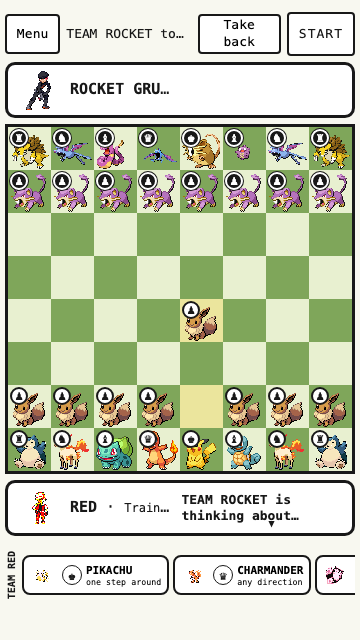
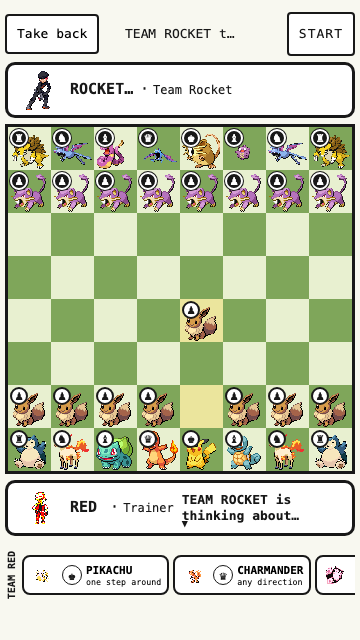
fix(b24): START replaces Menu, move lines per plate, one-line plates

diff --git a/src/style.css b/src/style.css
@@ -542,14 +542,13 @@ html.fit:not(.fit-wide) .legend-item { min-height: 38px; }
 html.fit-drawer .legend-strip { display: none; }
 html.fit-drawer.legend-open .legend-strip { display: flex; position: fixed; left: 8px; right: 8px; bottom: 8px; z-index: 30; width: auto; max-height: 60dvh; overflow: auto; flex-direction: column; padding: 8px; background: var(--paper); border: 3px solid var(--ink); border-radius: 10px; box-shadow: 0 4px 0 var(--ink); }
 /* Wide: the board takes the full height; plates and Who's who sit in a column beside it. */
-html.fit-wide header.game-header { width: calc(var(--sq) * 8 + 6px + 16px + 260px); }
+html.fit-wide main > header.game-header { grid-column: 1; grid-row: 1; width: calc(var(--sq) * 8 + 6px); margin: 0; }
+html.fit-wide main > .start-btn { grid-column: 2; grid-row: 1; width: 260px; }
 html.fit-wide main { display: grid; grid-template-columns: auto 260px; column-gap: 16px; row-gap: 6px; align-items: start; align-content: start; grid-auto-rows: min-content; }
 html.fit-wide main > * { grid-column: 2; width: 260px; }
-html.fit-wide main > .board-wrap { grid-column: 1; grid-row: 1 / span 20; width: auto; }
+html.fit-wide main > .board-wrap { grid-column: 1; grid-row: 2 / span 20; width: auto; }
 html.fit-wide .plate { height: 72px; }
 html.fit-wide .plate .plate-sprite { width: 60px; height: 60px; }
-html.fit-wide .plate-who { max-width: 40%; flex-direction: column; gap: 0; }
-html.fit-wide .plate-name { font-size: 11px; white-space: normal; text-align: center; }
 html.fit-wide .legend-strip { max-height: calc(var(--sq) * 8 - 170px); overflow-y: auto; }
 html.fit-wide .legend-team { flex-direction: column; align-items: stretch; overflow: visible; }
 html.fit-wide .legend-team-name { writing-mode: horizontal-tb; transform: none; font-size: 12px; }
@@ -595,8 +594,6 @@ html.fit-icons header.game-header { margin-bottom: 4px; }
 .loadout { display: flex; gap: 2px; margin-inline-start: 6px; }
 .loadout .loadout-mon { width: 32px; height: 32px; }
 html.fit-wide .plate { height: 88px; }
-html.fit-wide .plate-name { display: -webkit-box; -webkit-line-clamp: 2; -webkit-box-orient: vertical; overflow: hidden; line-height: 1.15; }
-html.fit-wide .plate-name small { display: block; }
 html.fit-wide .legend-strip { max-height: calc(var(--sq) * 8 - 200px); }
 /* Change C: the Gen 1 style start menu, drawn here: chunky double line boxes with rivet corners, a ▶ cursor. */
 .gb-box { position: relative; box-sizing: border-box; padding: 14px 18px; background: #f8f8f0; border: 4px double var(--ink); outline: 3px solid var(--ink); outline-offset: -11px; border-radius: 2px; box-shadow: inset 0 0 0 2px #f8f8f0; }
@@ -664,3 +661,30 @@ header.game-header .turn { flex: 1 1 auto; min-width: 0; overflow: hidden; text-
 .screen-quick .start-list .start-item { min-height: 56px; }
 html.fit header.game-header .start-btn { min-height: 44px; } /* START stays at least 44 px tall (§B22 item 3) */
 .menu.has-newgame-back { padding-top: 60px; }
+/* §B24 item 3: name and title on one line; only the name shortens. */
+.plate-name { display: flex; align-items: baseline; min-width: 0; overflow: hidden; white-space: nowrap; }
+.plate-name b { min-width: 0; overflow: hidden; text-overflow: ellipsis; }
+.plate-name .plate-sep, .plate-name .plate-title { flex: none; white-space: pre; }
+html.fit-wide .plate-who { max-width: 62%; }
+html.fit-wide .plate-name { font-size: 12px; }
+
+/* §B24 item 1: the status text stays centred over the board whatever sits left and right of it. */
+header.game-header { position: relative; }
+header.game-header .turn { position: absolute; left: 50%; top: 50%; transform: translate(-50%, -50%); max-width: calc(100% - 2 * 120px); pointer-events: none; }
+html.fit-icons header.game-header .turn { max-width: calc(100% - 2 * 96px); }
+header.game-header > .start-btn { margin-inline-start: auto; }
+.plate-who { overflow: hidden; }
+.plate-who .plate-name { flex: 0 1 auto; }
+.plate-who { max-width: 66%; }
+.plate-name b { min-width: 4ch; }
+.plate-name .plate-sep { margin: 0 4px; white-space: normal; }
+.plate-name .plate-title { white-space: nowrap; }
+/* Wide: the 260 px side column stacks each plate: trainer and name on top, the message underneath. */
+html.fit-wide .plate { flex-wrap: wrap; align-content: center; row-gap: 2px; padding-top: 4px; padding-bottom: 4px; }
+html.fit-wide .plate-who { flex: 1 1 100%; max-width: 100%; }
+html.fit-wide .plate .plate-sprite { width: 44px; height: 44px; }
+html.fit-wide .plate-msg { flex: 1 1 100%; font-size: 12px; }
+/* The message itself is clamped to 2 lines, so its box never runs past the plate (§B24, fit at 320x480). */
+.plate .textbox { display: block; max-height: 2.6em; }
+.plate .textbox .tb-main { display: -webkit-box; -webkit-line-clamp: 2; -webkit-box-orient: vertical; overflow: hidden; }
+.plate .textbox .tb-caption { display: none; }

diff --git a/src/main.ts b/src/main.ts
@@ -198,7 +198,7 @@ function boot(): App {
   const turnEl = el('p', 'turn');
   turnEl.dataset.testid = 'turn';
   const backBtn = button('game.takeBack', () => takeBack(), 'takeback');
-  header.append(button('game.menu', () => goTitle(), 'menu'), turnEl, backBtn);
+  header.append(backBtn, turnEl); // START replaces Menu (§B24 item 1)
   // START (§B22 item 3), in the top bar on the game screen, in the corner or the top row elsewhere.
   const startBtn = new StartButton(() => startActions(), () => yellow() || !!journey.campaign.starter || isGuest());
   header.append(startBtn.inBar);
@@ -304,7 +304,7 @@ function boot(): App {
   const plates = new Plates();
   main.append(plates.top, boardWrap, plates.bottom, legend.el, online.bar, puzzle.bar, path.bar);
   plates.attachText(text.el); // your plate and the text box are one bar (change A)
-  const fitter = new Fitter({ header, main, board: boardWrap, legend: legend.el, others: [plates.top, plates.bottom, online.bar, puzzle.bar, path.bar] });
+  const fitter = new Fitter({ header, main, board: boardWrap, legend: legend.el, others: [plates.top, plates.bottom, online.bar, puzzle.bar, path.bar], start: startBtn.inBar });
   /** Story stage and trainers (§B18 items 5 and 8). Online, each side brings its own look from the relay. */
   const look = () => (isGuest() ? { stage: 2 as const, trainer: 'red' as const } : myLook(!yellow(), journey.campaign.badges.length));
   let looks: Partial<Record<Color, Look>> = {};
@@ -373,8 +373,7 @@ function boot(): App {
   /** CONTINUE (change C) and the hub's Continue: the journey spot or the game in progress, else the home screen. */
   function resume(): void {
     const g = savedGame();
-    const c = journey.campaign;
-    if (!yellow() && c.starter && (load<string>('last') === 'journey' || !g)) return journey.open();
+    if (!yellow() && journey.campaign.starter && (load<string>('last') === 'journey' || !g)) return journey.open();
     if (g) return startGame(g, g);
     goTitle();
   }
@@ -383,9 +382,8 @@ function boot(): App {
   const vsComputer = () => (yellow() ? show(yellowLevels((level) => startGame({ mode: 'computer', human: 'w', level }), goTitle, faces('w'))) : show(teamSelect((human) => show(levelSelect((level) => startGame({ mode: 'computer', human, level }), goTitle, faces(human))), goTitle)));
   /** SAVE & QUIT (§B22 item 3): progress is already saved; back to the start menu. A guest's session just ends. */
   function quit(): void {
-    for (const stop of [() => online.close(), () => puzzle.stop(), () => path.stop(), leaveGuest]) stop();
-    journey.campaign = loadCampaign();
-    flow.menu();
+    for (const stop of [() => online.close(), () => puzzle.stop(), () => path.stop(), leaveGuest, () => (journey.campaign = loadCampaign())]) stop();
+    return params.has('debug') && !params.has('menu') ? goTitle() : flow.menu(); // tests skip the start menu, as after the splash
   }
   /** What START offers here: the Journey only for a BLUE save, Online only in BLUE, the Pokédex only with a save. */
   const startActions = (): StartActions => ({
@@ -537,8 +535,10 @@ function boot(): App {
     const sp = speciesFor(out.move.color, out.move.promotion ?? out.move.piece, to);
     const lines = notice ? [notice, ...out.lines] : out.lines;
     notice = null;
-    if (lines.length) text.show(lines);
-    else text.plain(fmt('moved', { piece: sp.name, square: to }));
+    // Each side's move line goes to that side's plate; yours keeps your prompts (§B24 item 2).
+    const said = lines.length ? lines.map((l) => fmt(l.key, l.vars)).join(' ') : fmt('moved', { piece: sp.name, square: to });
+    if (!plates.message(out.move.color, said)) text.show(lines.length ? lines : [{ key: 'moved', vars: { piece: sp.name, square: to } }]);
+    else text.plain('');
     announce([fmt('moved', { piece: sp.name, square: to }), ...out.lines.map((l) => fmt(l.key, l.vars))].join(' '));
     if (out.move.isKingsideCastle() || out.move.isQueensideCastle()) sound.castle();
     else if (!out.battle) sound.place();

diff --git a/tests/e2e/b24.spec.ts b/tests/e2e/b24.spec.ts
@@ -1,0 +1,65 @@
+// SPDX-License-Identifier: AGPL-3.0-only
+// §B24: START replaces Menu, move lines go to the mover's plate, plate names and titles on one line.
+import { expect, test, type Page } from '@playwright/test';
+
+const boxOf = async (page: Page, sel: string) => (await page.locator(sel).first().boundingBox())!;
+
+/** A guest game vs Jessie & James (level 3), as in the owner's screenshot. */
+async function guestVsJessie(page: Page): Promise<void> {
+  await page.addInitScript(() => localStorage.setItem('kc:v1:settings', JSON.stringify({ v: 2, anim: 'off', legend: 'on' })));
+  await page.goto('./?debug=1&menu=1');
+  await page.getByTestId('screen-splash').click();
+  await page.getByTestId('start-play').click();
+  await page.getByTestId('quick-computer').click();
+  await page.getByTestId('team-red').click();
+  await page.getByTestId('level-3').click();
+  await page.getByTestId('intro').click();
+}
+
+for (const [w, h] of [[1440, 900], [360, 640]] as const) {
+  test(`top bar and plates at ${w}x${h}`, async ({ page }) => {
+    test.setTimeout(60_000);
+    await page.setViewportSize({ width: w, height: h });
+    await guestVsJessie(page);
+    await expect(page.getByTestId('menu')).toHaveCount(0);
+    const start = await boxOf(page, '[data-testid="start-button"]');
+    const board = await boxOf(page, '#board');
+    const turn = await boxOf(page, '[data-testid="turn"]');
+    const top = await boxOf(page, '[data-testid="plate-top"]');
+    expect(start.height).toBeGreaterThanOrEqual(44);
+    if (w > h) {
+      // Wide: START tops the side column, as wide as it, above the opponent's plate.
+      expect(start.x).toBeGreaterThanOrEqual(board.x + board.width);
+      expect(Math.abs(start.width - top.width)).toBeLessThanOrEqual(1);
+      expect(Math.abs(start.x - top.x)).toBeLessThanOrEqual(1);
+      expect(start.y + start.height).toBeLessThanOrEqual(top.y + 1);
+    } else {
+      // Narrow: top right of the top bar.
+      const bar = await boxOf(page, 'header.game-header');
+      expect(Math.abs(start.x + start.width - (bar.x + bar.width))).toBeLessThanOrEqual(2);
+      expect(start.y).toBeLessThan(board.y);
+    }
+    // The status text stays centred over the board.
+    expect(Math.abs(turn.x + turn.width / 2 - (board.x + board.width / 2))).toBeLessThanOrEqual(w > h ? 4 : 40);
+    // Name and title on one line, the title whole, no stray separator.
+    for (const plate of ['plate-top', 'plate-bottom']) {
+      const name = page.getByTestId(plate).locator('.plate-name');
+      const b = await name.locator('b').boundingBox();
+      const t = await name.locator('.plate-title').boundingBox();
+      const who = await page.getByTestId(plate).locator('.plate-who').boundingBox();
+      expect(Math.abs(b!.y + b!.height - (t!.y + t!.height))).toBeLessThanOrEqual(3);
+      expect(t!.x + t!.width).toBeLessThanOrEqual(who!.x + who!.width + 1);
+      expect(await name.locator('.plate-title').evaluate((e) => e.scrollWidth <= e.clientWidth + 1)).toBe(true);
+    }
+    await expect(page.getByTestId('plate-top')).toContainText('JESSIE & JAMES');
+    await expect(page.getByTestId('plate-top')).toContainText('Team Rocket');
+    await expect(page.getByTestId('plate-bottom')).toContainText('Guest');
+    await expect(page.getByTestId('plate-bottom')).toContainText('Trainer');
+    // Your move: your plate. The computer's reply: its own plate, never yours.
+    await page.click('[data-square="e2"]');
+    await page.click('[data-square="e4"]');
+    await expect(page.getByTestId('plate-top-msg')).toContainText(/ to [a-h][1-8]/, { timeout: 15_000 });
+    expect(await page.getByTestId('text-main').textContent()).not.toMatch(/(MEOWTH|ARBOK|WEEZING|LICKITUNG|VICTREEBEL|EKANS) to /);
+    await page.screenshot({ path: `docs/layout/b24-${w}x${h}.png` });
+  });
+}

diff --git a/src/ui/fit.ts b/src/ui/fit.ts
@@ -19,6 +19,8 @@ export interface FitParts {
   legend: HTMLElement;
   /** Plates and bars: everything stacked with the board. */
   others: HTMLElement[];
+  /** START (§B24 item 1): in the top bar when narrow, at the top of the side column when wide. */
+  start?: HTMLElement;
 }
 
 export class Fitter {
@@ -71,6 +73,7 @@ export class Fitter {
     const cls = this.root.classList;
     const wide = W > H && W - SIDE_COL_PX - 3 * PAD_PX >= MIN_BOARD_PX && H < W * 0.9;
     cls.toggle('fit-wide', wide);
+    this.arrange(wide);
     cls.remove('fit-drawer', 'fit-icons');
     const legendOn = !this.p.legend.hidden;
     let side = this.measure(W, H, wide);
@@ -87,6 +90,19 @@ export class Fitter {
     if (!cls.contains('fit-drawer')) cls.remove('legend-open');
     const sq = Math.max(16, Math.floor((side - 6) / 8)); // 6: the board's 3 px border on each side
     this.root.style.setProperty('--sq', `${sq}px`);
+  }
+
+  /** Wide: the status bar goes over the board (first grid cell) and START tops the side column. Narrow: both back
+   * in the top bar above everything (§B24 item 1). */
+  private arrange(wide: boolean): void {
+    const { header, main, start } = this.p;
+    if (wide) {
+      if (header.parentElement !== main) main.prepend(header);
+      if (start && start.parentElement !== main) header.after(start);
+    } else {
+      if (header.parentElement === main) main.before(header);
+      if (start && start.parentElement !== header) header.append(start);
+    }
   }
 
   /** The board side that fits, with the stacked parts at their current heights. */

diff --git a/tests/e2e/layout.spec.ts b/tests/e2e/layout.spec.ts
@@ -27,7 +27,7 @@ async function inView(page: Page, testid: string, what: string): Promise<void> {
 async function checkGame(page: Page, what: string): Promise<void> {
   await page.waitForTimeout(150);
   await noScroll(page, what);
-  for (const id of ['board', 'plate-top', 'plate-bottom', 'menu', 'takeback', 'text-main', 'start-button']) await inView(page, id, what);
+  for (const id of ['board', 'plate-top', 'plate-bottom', 'takeback', 'text-main', 'start-button']) await inView(page, id, what);
   // START sits in the top bar row and is at least 44 px tall (§B22 item 3).
   expect((await page.getByTestId('start-button').boundingBox())!.height, `${what}: START height`).toBeGreaterThanOrEqual(44);
   const board = (await page.getByTestId('board').boundingBox())!;
@@ -64,9 +64,10 @@ for (const [w, h] of SIZES) {
     await page.evaluate(() => (window as unknown as KC).__kc.openPuzzles());
     await page.waitForTimeout(300);
     await noScroll(page, `${w}x${h} puzzle`);
-    for (const id of ['board', 'plate-bottom', 'menu']) await inView(page, id, `${w}x${h} puzzle`);
+    for (const id of ['board', 'plate-bottom', 'start-button']) await inView(page, id, `${w}x${h} puzzle`);
     // The level picker and the shelf.
-    await page.getByTestId('menu').click();
+    await page.getByTestId('start-button').click(); // START replaced Menu (§B24 item 1)
+    await page.getByTestId('start-menu-quit').click();
     await page.getByTestId('vs-computer').click();
     await page.getByTestId('team-red').click();
     await noScroll(page, `${w}x${h} level picker`);

diff --git a/tests/e2e/shell.spec.ts b/tests/e2e/shell.spec.ts
@@ -48,7 +48,9 @@ test.describe('360x640', () => {
     await expect(page.getByTestId('turn')).toHaveText('TEAM ROCKET to move', { timeout: 5000 });
     expect(await page.locator('.sq').first().getAttribute('data-square')).toBe('h1');
     await expect(page.getByTestId('takeback')).toBeVisible();
-    await page.getByTestId('menu').click();
+    await page.getByTestId('start-button').click(); // START replaced Menu (§B24 item 1)
+    await page.getByTestId('start-menu-quit').click();
+    await page.getByTestId('start-continue').click(); // the real start menu, then home
     await page.getByTestId('how-to').click();
     await expect(page.getByTestId('screen-howto')).toContainText('Bishop, light squares');
     expect(errors).toEqual([]);
@@ -73,8 +75,9 @@ test.describe('360x640', () => {
     // CONTINUE on the start menu resumes the game in progress (change C).
     await page.getByTestId('start-continue').click();
     await expect(page.locator('[data-square="e4"]')).toHaveAttribute('data-piece', 'wp');
-    await page.getByTestId('menu').click();
-    await page.getByTestId('settings').click();
+    await page.getByTestId('start-button').click(); // START replaced Menu (§B24 item 1)
+    await page.getByTestId('start-menu-quit').click();
+    await page.getByTestId('start-option').click(); // SAVE & QUIT lands on the start menu: its OPTION
     await expect(page.getByTestId('set-anim')).toHaveValue('off');
   });
 });

diff --git a/tests/e2e/startflow.spec.ts b/tests/e2e/startflow.spec.ts
@@ -76,7 +76,7 @@ test('BACK out of NEW GAME: the shelf, the intro and the name step return to the
 
 test('START: in the top bar, opens with a tap, S or Enter, closes with B or Escape; SAVE & QUIT returns to the start menu', async ({ page }) => {
   await seed(page);
-  await page.goto('./?debug=1&start=two');
+  await page.goto('./?debug=1&menu=1&start=two');
   const btn = page.getByTestId('start-button');
   const box = (await btn.boundingBox())!;
   expect(box.height).toBeGreaterThanOrEqual(44);
@@ -146,7 +146,8 @@ test('PLAY CHESS: straight into a game as a guest; nothing is saved and the Jour
   await page.click('[data-square="e2"]');
   await page.click('[data-square="e4"]');
   await page.waitForTimeout(800);
-  await page.getByTestId('menu').click();
+  await page.getByTestId('start-button').click();
+  await page.getByTestId('start-menu-quit').click();
   await expect(page.getByTestId('screen-start')).toBeVisible();
   expect(await storage(page)).toBe(before);
   // VS FRIEND as guests too.

diff --git a/tests/e2e/c8.spec.ts b/tests/e2e/c8.spec.ts
@@ -46,8 +46,8 @@ test('name plates carry titles and stay on screen at 360x640 @both', async ({ pa
   await page.getByTestId('team-red').click();
   await page.getByTestId('level-4').click();
   await page.getByTestId('intro').click();
-  await expect(page.getByTestId('plate-top')).toContainText('GIOVANNI · Boss');
-  await expect(page.getByTestId('plate-bottom')).toContainText('JADE · Trainer');
+  await expect(page.getByTestId('plate-top')).toContainText(/GIOVANNI\s*·\s*Boss/);
+  await expect(page.getByTestId('plate-bottom')).toContainText(/JADE\s*·\s*Trainer/);
   for (const id of ['plate-top', 'plate-bottom']) {
     const box = (await page.getByTestId(id).boundingBox())!;
     expect(box.y, id).toBeGreaterThanOrEqual(0);

diff --git a/src/ui/plates.ts b/src/ui/plates.ts
@@ -97,9 +97,15 @@ export class Plates {
     const name = el('span', 'plate-name');
     const b = el('b');
     b.textContent = s.name;
-    const title = el('small', 'plate-title');
-    title.textContent = s.title;
-    name.append(b, ' · ', title);
+    name.append(b);
+    // One line: the name shortens with an ellipsis, the title never does, and no separator without a title (§B24 item 3).
+    if (s.title) {
+      const sep = el('span', 'plate-sep');
+      sep.textContent = '·';
+      const title = el('small', 'plate-title');
+      title.textContent = s.title;
+      name.append(sep, title);
+    }
     who.replaceChildren(sprite, name);
   }
 

diff --git a/tests/e2e/fixes.spec.ts b/tests/e2e/fixes.spec.ts
@@ -148,7 +148,8 @@ test.describe('YELLOW My Team', () => {
     await expect(at('c1')).toHaveAttribute('aria-label', /ONIX/);
     await expect(at('f1')).toHaveAttribute('aria-label', /ONIX/);
     await expect(at('e1')).toHaveAttribute('aria-label', /PIKACHU/);
-    await page.getByTestId('menu').click();
+    await page.getByTestId('start-button').click(); // START replaced Menu (§B24 item 1)
+    await page.getByTestId('start-menu-quit').click();
     await page.getByTestId('yellow-team').click();
     await page.getByTestId('yellow-classic').click();
     await expect(page.getByTestId('yslot-q')).toHaveAttribute('data-species', 'charizard');

diff --git a/tests/e2e/castle.spec.ts b/tests/e2e/castle.spec.ts
@@ -21,7 +21,8 @@ for (const c of CASES) {
       await page.click(`[data-square="${via === 'dot' ? c.dot : c.rook}"]`);
       await expect(page.locator(`[data-square="${c.dot}"]`)).toHaveAttribute('data-piece', `${c.turn}k`);
       await expect(page.locator(`[data-square="${c.rookTo}"]`)).toHaveAttribute('data-piece', `${c.turn}r`);
-      await expect(page.getByTestId('text-main')).toHaveText(c.text);
+      // The mover's line goes to the mover's plate (§B24 item 2): Red's to the text box, Rocket's to the top plate.
+      await expect(page.getByTestId(c.turn === 'w' ? 'text-main' : 'plate-top-msg')).toHaveText(c.text);
     });
   }
 }

diff --git a/tests/e2e/hub.spec.ts b/tests/e2e/hub.spec.ts
@@ -88,7 +88,8 @@ test('Continue resumes a game in progress', async ({ page }) => {
   await page.getByTestId('intro').click();
   await page.click('[data-square="e2"]');
   await page.click('[data-square="e4"]');
-  await page.getByTestId('menu').click();
+  await page.getByTestId('start-button').click(); // START replaced Menu (§B24 item 1)
+  await page.getByTestId('start-menu-quit').click();
   await expect(page.getByTestId('continue')).toContainText('Your game in progress');
   await page.getByTestId('continue').click();
   await expect(page.locator('[data-square="e4"]')).toHaveAttribute('data-piece', 'wp');
